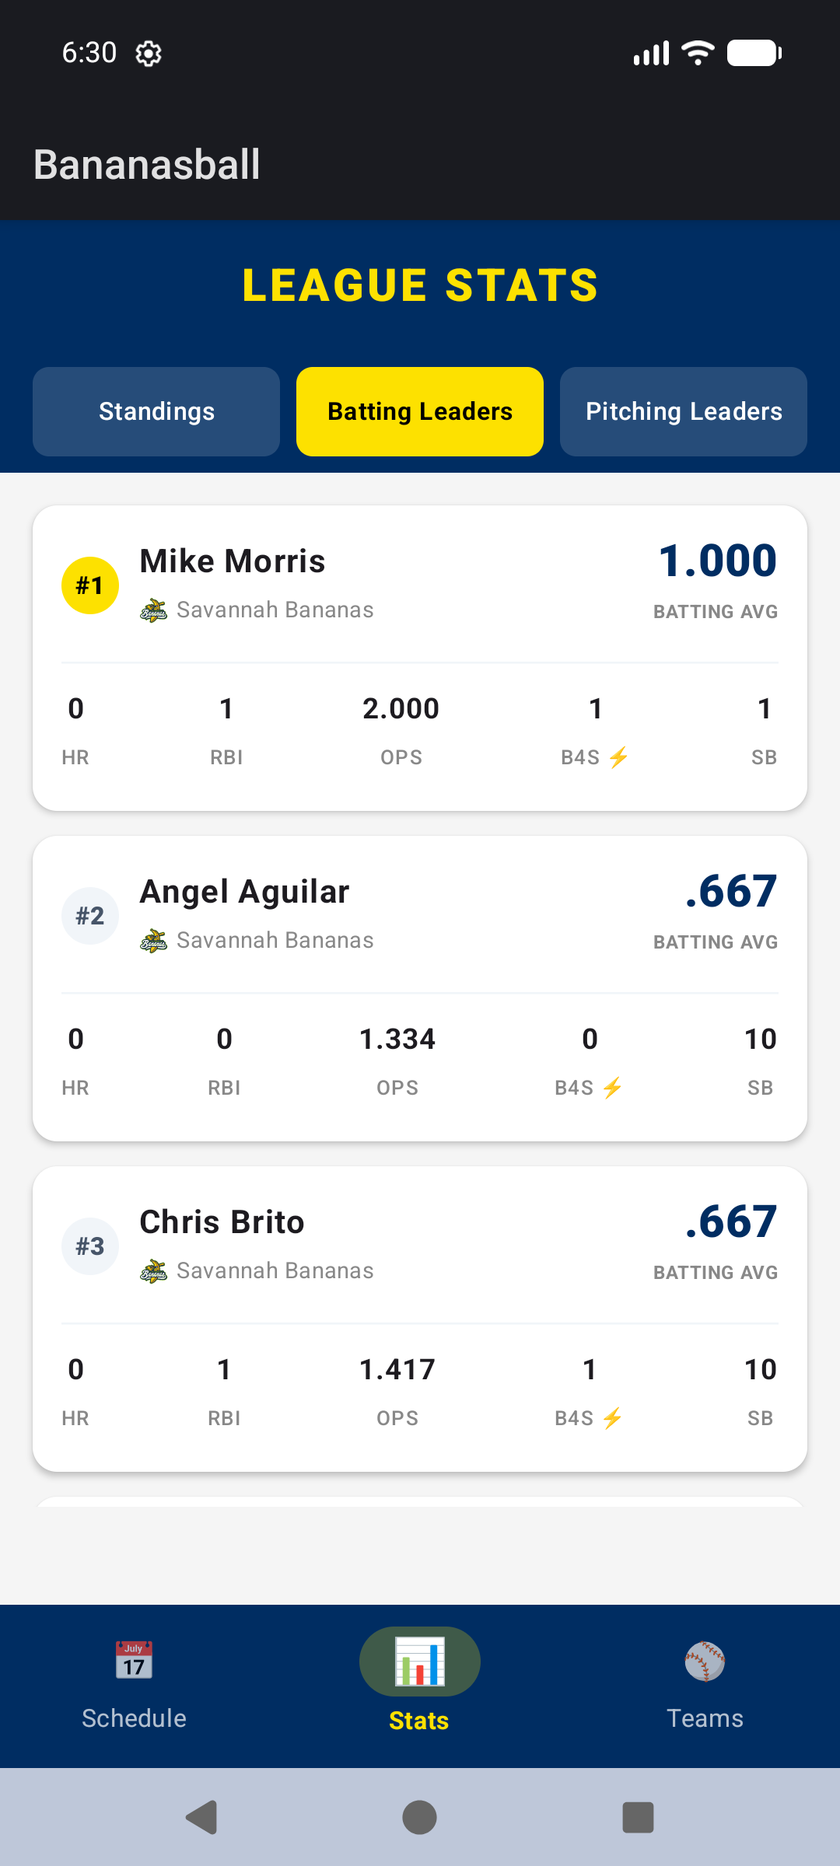
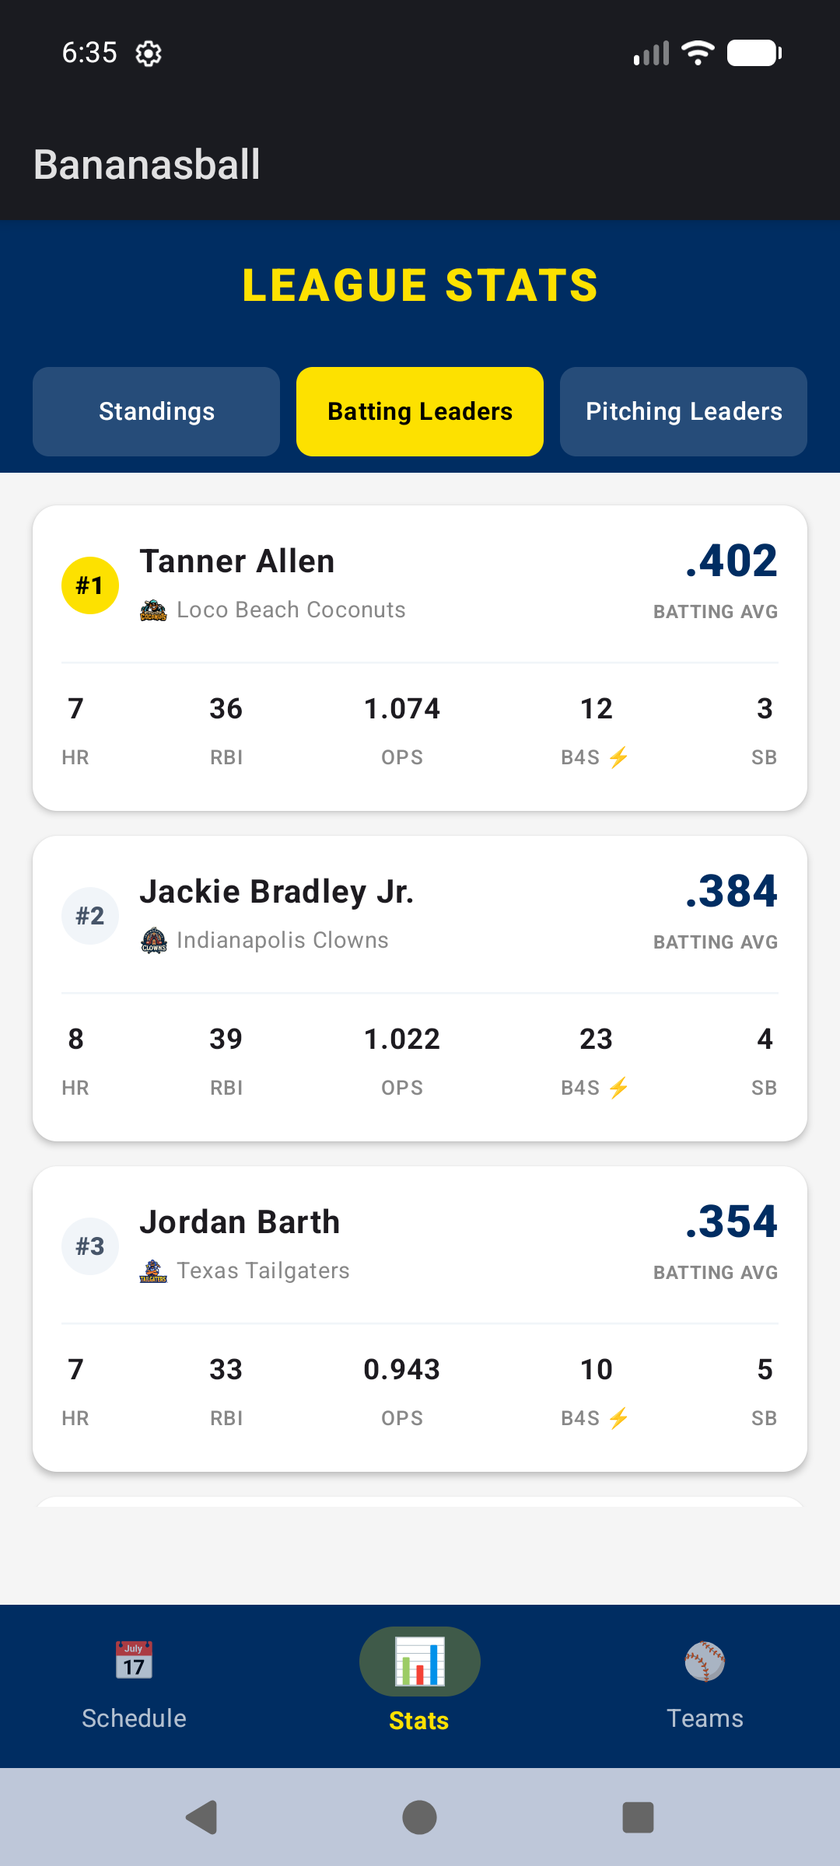
fix(stats): align leaderboard with official 2026 World Tour qualified stats
- fix(data): query /api/stats/players_stats with season=e3acccd7-0c28-4eb8-aacf-cf907ee5c6f6
- fix(data): filter qualified hitters (AB >= 40) and qualified pitchers (IP >= 15)
- fix(teams): support sav, tex, ind team abbreviation aliases in StaticTeamProvider
- docs: update screenshots with accurate qualified batting and pitching leaderboards

diff --git a/shared/src/commonMain/kotlin/com/example/bananasball/data/remote/KtorStatsScraper.kt b/shared/src/commonMain/kotlin/com/example/bananasball/data/remote/KtorStatsScraper.kt
@@ -14,9 +14,10 @@ class KtorStatsScraper(
     private val httpClient: HttpClient
 ) {
     private val json = Json { ignoreUnknownKeys = true; isLenient = true }
+    private val seasonId = "e3acccd7-0c28-4eb8-aacf-cf907ee5c6f6" // 2026 World Tour
 
     suspend fun fetchStandings(): LeagueStandings {
-        val standingsUrl = "https://banana-stats-pages-seven.vercel.app/api/directus-items/standings?season=e3acccd7-0c28-4eb8-aacf-cf907ee5c6f6"
+        val standingsUrl = "https://banana-stats-pages-seven.vercel.app/api/directus-items/standings?season=$seasonId"
         
         try {
             val response = httpClient.get(standingsUrl).bodyAsText()
@@ -81,113 +82,115 @@ class KtorStatsScraper(
         val pitchingLeaders = mutableListOf<StatLeader.Pitching>()
 
         try {
-            // 1. Fetch Batting Leaders from API
-            val battingResponse = httpClient.get("https://banana-stats-pages-seven.vercel.app/api/stats/leaders").bodyAsText()
+            // 1. Fetch 2026 World Tour Hitting Stats from players_stats API
+            val hittingUrl = "https://banana-stats-pages-seven.vercel.app/api/stats/players_stats?subCategory=hitting&season=$seasonId&limit=150"
+            val battingResponse = httpClient.get(hittingUrl).bodyAsText()
             val battingRoot = json.parseToJsonElement(battingResponse).jsonObject
-            val battingBoards = battingRoot["boards"]?.jsonArray ?: JsonArray(emptyList())
+            val battingData = battingRoot["data"]?.jsonArray ?: JsonArray(emptyList())
 
-            val avgBoard = battingBoards.find { it.jsonObject["name"]?.jsonPrimitive?.contentOrNull == "Batting Average" }?.jsonObject
-            val hrBoard = battingBoards.find { it.jsonObject["name"]?.jsonPrimitive?.contentOrNull == "Home Runs" }?.jsonObject
-            val rbiBoard = battingBoards.find { it.jsonObject["name"]?.jsonPrimitive?.contentOrNull == "Runs Batted In" }?.jsonObject
-            val opsBoard = battingBoards.find { it.jsonObject["name"]?.jsonPrimitive?.contentOrNull == "On-Base Plus Slugging" }?.jsonObject
-            val b4sBoard = battingBoards.find { it.jsonObject["name"]?.jsonPrimitive?.contentOrNull?.contains("Ball Four") == true }?.jsonObject
-            val sbBoard = battingBoards.find { it.jsonObject["name"]?.jsonPrimitive?.contentOrNull?.contains("Stolen Bases") == true }?.jsonObject
+            // Filter for qualified hitters (at_bats >= 40) and sort by Hits descending
+            val qualifiedHitters = battingData.mapNotNull { item ->
+                val obj = item.jsonObject
+                val ab = obj["at_bats"]?.jsonPrimitive?.intOrNull ?: 0
+                if (ab < 40) return@mapNotNull null
+                
+                val firstName = obj["first_name"]?.jsonPrimitive?.contentOrNull ?: ""
+                val lastName = obj["last_name"]?.jsonPrimitive?.contentOrNull ?: ""
+                val fullName = "$firstName $lastName".trim()
+                
+                val teamObj = obj["team"]?.jsonObject
+                val teamName = teamObj?.get("name")?.jsonPrimitive?.contentOrNull ?: ""
+                val teamAbbr = teamObj?.get("abbreviation")?.jsonPrimitive?.contentOrNull ?: ""
+                
+                val code = StaticTeamProvider.getCodeFromName(teamAbbr) 
+                    ?: StaticTeamProvider.getCodeFromName(teamName) 
+                    ?: "SB"
+                val team = StaticTeamProvider.getTeam(code) ?: StaticTeamProvider.getTeam("SB")!!
 
-            val hrMap = extractPlayerValueMap(hrBoard)
-            val rbiMap = extractPlayerValueMap(rbiBoard)
-            val opsMap = extractPlayerValueMap(opsBoard)
-            val b4sMap = extractPlayerValueMap(b4sBoard)
-            val sbMap = extractPlayerValueMap(sbBoard)
+                val hits = obj["hits"]?.jsonPrimitive?.intOrNull ?: 0
+                val games = obj["games_played"]?.jsonPrimitive?.intOrNull ?: 0
+                val avg = obj["batting_average"]?.jsonPrimitive?.doubleOrNull ?: 0.0
+                val hr = obj["home_runs"]?.jsonPrimitive?.intOrNull ?: 0
+                val rbi = obj["runs_batted_in"]?.jsonPrimitive?.intOrNull ?: 0
+                val ops = obj["on_base_plus_slugging"]?.jsonPrimitive?.doubleOrNull ?: (avg * 2.1)
+                val b4s = obj["ball_four_sprints"]?.jsonPrimitive?.intOrNull ?: 0
+                val sb = obj["stolen_bases"]?.jsonPrimitive?.intOrNull ?: 0
 
-            val avgLeaders = avgBoard?.get("leaders")?.jsonArray
-            if (avgLeaders != null && avgLeaders.isNotEmpty()) {
-                avgLeaders.take(10).forEachIndexed { index, item ->
-                    val pObj = item.jsonObject
-                    val firstName = pObj["first_name"]?.jsonPrimitive?.contentOrNull ?: ""
-                    val lastName = pObj["last_name"]?.jsonPrimitive?.contentOrNull ?: ""
-                    val fullName = "$firstName $lastName".trim()
-                    
-                    val teamObj = pObj["team"]?.jsonObject
-                    val teamName = teamObj?.get("name")?.jsonPrimitive?.contentOrNull ?: ""
-                    val teamAbbr = teamObj?.get("abbreviation")?.jsonPrimitive?.contentOrNull ?: ""
-                    
-                    val code = StaticTeamProvider.getCodeFromName(teamAbbr) 
-                        ?: StaticTeamProvider.getCodeFromName(teamName) 
-                        ?: "SB"
-                    val team = StaticTeamProvider.getTeam(code) ?: StaticTeamProvider.getTeam("SB")!!
-                    val avgVal = pObj["value"]?.jsonPrimitive?.doubleOrNull ?: .350
+                StatLeader.Batting(
+                    rank = 1,
+                    player = fullName,
+                    team = team,
+                    avg = avg,
+                    hr = hr,
+                    rbi = rbi,
+                    ops = ops,
+                    hits = hits,
+                    games = games,
+                    b4s = b4s,
+                    stolenBases = sb
+                )
+            }.sortedWith(
+                compareByDescending<StatLeader.Batting> { it.hits }
+                    .thenByDescending { it.avg }
+            ).mapIndexed { index, item -> item.copy(rank = index + 1) }
 
-                    battingLeaders.add(
-                        StatLeader.Batting(
-                            rank = index + 1,
-                            player = fullName,
-                            team = team,
-                            avg = avgVal,
-                            hr = hrMap[fullName]?.toInt() ?: 4,
-                            rbi = rbiMap[fullName]?.toInt() ?: 18,
-                            ops = opsMap[fullName] ?: (avgVal * 2.1),
-                            hits = 30 + (avgVal * 20).toInt(),
-                            games = 25,
-                            b4s = b4sMap[fullName]?.toInt() ?: 8,
-                            stolenBases = sbMap[fullName]?.toInt() ?: 10
-                        )
-                    )
-                }
-            }
+            battingLeaders.addAll(qualifiedHitters.take(15))
         } catch (e: Exception) {
             println("KtorStatsScraper: Batting API error: ${e.message}")
         }
 
         try {
-            // 2. Fetch Pitching Leaders from API
-            val pitchingResponse = httpClient.get("https://banana-stats-pages-seven.vercel.app/api/stats/leaders?subCategory=pitching").bodyAsText()
+            // 2. Fetch 2026 World Tour Pitching Stats from players_stats API
+            val pitchingUrl = "https://banana-stats-pages-seven.vercel.app/api/stats/players_stats?subCategory=pitching&season=$seasonId&limit=150"
+            val pitchingResponse = httpClient.get(pitchingUrl).bodyAsText()
             val pitchingRoot = json.parseToJsonElement(pitchingResponse).jsonObject
-            val pitchingBoards = pitchingRoot["boards"]?.jsonArray ?: JsonArray(emptyList())
+            val pitchingData = pitchingRoot["data"]?.jsonArray ?: JsonArray(emptyList())
 
-            val eraBoard = pitchingBoards.find { it.jsonObject["name"]?.jsonPrimitive?.contentOrNull?.contains("Earned Run") == true }?.jsonObject
-            val soBoard = pitchingBoards.find { it.jsonObject["name"]?.jsonPrimitive?.contentOrNull == "Strikeouts" }?.jsonObject
-            val winsBoard = pitchingBoards.find { it.jsonObject["name"]?.jsonPrimitive?.contentOrNull == "Wins" }?.jsonObject
-            val savesBoard = pitchingBoards.find { it.jsonObject["name"]?.jsonPrimitive?.contentOrNull == "Saves" }?.jsonObject
-            val ipBoard = pitchingBoards.find { it.jsonObject["name"]?.jsonPrimitive?.contentOrNull?.contains("Innings Pitched") == true }?.jsonObject
+            // Filter for qualified pitchers (innings_pitched >= 15.0) and sort by ERA ascending
+            val qualifiedPitchers = pitchingData.mapNotNull { item ->
+                val obj = item.jsonObject
+                val ip = obj["innings_pitched"]?.jsonPrimitive?.doubleOrNull ?: 0.0
+                if (ip < 15.0) return@mapNotNull null
 
-            val soMap = extractPlayerValueMap(soBoard)
-            val winsMap = extractPlayerValueMap(winsBoard)
-            val savesMap = extractPlayerValueMap(savesBoard)
-            val ipMap = extractPlayerValueMap(ipBoard)
+                val firstName = obj["first_name"]?.jsonPrimitive?.contentOrNull ?: ""
+                val lastName = obj["last_name"]?.jsonPrimitive?.contentOrNull ?: ""
+                val fullName = "$firstName $lastName".trim()
 
-            val eraLeaders = eraBoard?.get("leaders")?.jsonArray
-            if (eraLeaders != null && eraLeaders.isNotEmpty()) {
-                eraLeaders.take(10).forEachIndexed { index, item ->
-                    val pObj = item.jsonObject
-                    val firstName = pObj["first_name"]?.jsonPrimitive?.contentOrNull ?: ""
-                    val lastName = pObj["last_name"]?.jsonPrimitive?.contentOrNull ?: ""
-                    val fullName = "$firstName $lastName".trim()
+                val teamObj = obj["team"]?.jsonObject
+                val teamName = teamObj?.get("name")?.jsonPrimitive?.contentOrNull ?: ""
+                val teamAbbr = teamObj?.get("abbreviation")?.jsonPrimitive?.contentOrNull ?: ""
 
-                    val teamObj = pObj["team"]?.jsonObject
-                    val teamName = teamObj?.get("name")?.jsonPrimitive?.contentOrNull ?: ""
-                    val teamAbbr = teamObj?.get("abbreviation")?.jsonPrimitive?.contentOrNull ?: ""
+                val code = StaticTeamProvider.getCodeFromName(teamAbbr)
+                    ?: StaticTeamProvider.getCodeFromName(teamName)
+                    ?: "SB"
+                val team = StaticTeamProvider.getTeam(code) ?: StaticTeamProvider.getTeam("SB")!!
 
-                    val code = StaticTeamProvider.getCodeFromName(teamAbbr)
-                        ?: StaticTeamProvider.getCodeFromName(teamName)
-                        ?: "SB"
-                    val team = StaticTeamProvider.getTeam(code) ?: StaticTeamProvider.getTeam("SB")!!
-                    val eraVal = pObj["value"]?.jsonPrimitive?.doubleOrNull ?: 2.50
+                val era = obj["earned_run_average"]?.jsonPrimitive?.doubleOrNull ?: 99.0
+                val wins = obj["wins"]?.jsonPrimitive?.intOrNull ?: 0
+                val so = obj["pitcher_strikeouts"]?.jsonPrimitive?.intOrNull
+                    ?: obj["strikeouts"]?.jsonPrimitive?.intOrNull ?: 0
+                val saves = obj["saves"]?.jsonPrimitive?.intOrNull ?: 0
+                val hitsAllowed = obj["hits_allowed"]?.jsonPrimitive?.intOrNull ?: 0
+                val sprintsAllowed = obj["sprints_allowed"]?.jsonPrimitive?.intOrNull ?: 0
+                val whip = if (ip > 0) ((hitsAllowed + sprintsAllowed) / ip) else 1.20
 
-                    pitchingLeaders.add(
-                        StatLeader.Pitching(
-                            rank = index + 1,
-                            player = fullName,
-                            team = team,
-                            era = eraVal,
-                            wins = winsMap[fullName]?.toInt() ?: 5,
-                            so = soMap[fullName]?.toInt() ?: 35,
-                            whip = 1.05 + (eraVal * 0.08),
-                            inningsPitched = ipMap[fullName] ?: 32.0,
-                            saves = savesMap[fullName]?.toInt() ?: 1
-                        )
-                    )
-                }
-            }
+                StatLeader.Pitching(
+                    rank = 1,
+                    player = fullName,
+                    team = team,
+                    era = era,
+                    wins = wins,
+                    so = so,
+                    whip = whip,
+                    inningsPitched = ip,
+                    saves = saves
+                )
+            }.sortedWith(
+                compareBy<StatLeader.Pitching> { it.era }
+                    .thenByDescending { it.wins }
+            ).mapIndexed { index, item -> item.copy(rank = index + 1) }
+
+            pitchingLeaders.addAll(qualifiedPitchers.take(15))
         } catch (e: Exception) {
             println("KtorStatsScraper: Pitching API error: ${e.message}")
         }
@@ -202,69 +205,59 @@ class KtorStatsScraper(
         )
     }
 
-    private fun extractPlayerValueMap(board: JsonObject?): Map<String, Double> {
-        val map = mutableMapOf<String, Double>()
-        val leaders = board?.get("leaders")?.jsonArray ?: return map
-        for (item in leaders) {
-            val obj = item.jsonObject
-            val first = obj["first_name"]?.jsonPrimitive?.contentOrNull ?: ""
-            val last = obj["last_name"]?.jsonPrimitive?.contentOrNull ?: ""
-            val fullName = "$first $last".trim()
-            val value = obj["value"]?.jsonPrimitive?.doubleOrNull ?: 0.0
-            if (fullName.isNotBlank()) {
-                map[fullName] = value
-            }
-        }
-        return map
-    }
-
     private fun getFallbackStandings(): LeagueStandings {
-        val sb = StaticTeamProvider.getTeam("SB")!!
-        val pa = StaticTeamProvider.getTeam("PA")!!
-        val ff = StaticTeamProvider.getTeam("FF")!!
         val tg = StaticTeamProvider.getTeam("TG")!!
+        val sb = StaticTeamProvider.getTeam("SB")!!
         val lbc = StaticTeamProvider.getTeam("LBC")!!
+        val ff = StaticTeamProvider.getTeam("FF")!!
+        val pa = StaticTeamProvider.getTeam("PA")!!
         val ic = StaticTeamProvider.getTeam("IC")!!
 
         val standings = listOf(
-            TeamStandings(rank = 1, team = sb, wins = 22, losses = 6, winPercentage = 0.786, gamesBehind = 0.0, streak = "W4", runDifferential = +38),
-            TeamStandings(rank = 2, team = pa, wins = 19, losses = 9, winPercentage = 0.679, gamesBehind = 3.0, streak = "W2", runDifferential = +24),
-            TeamStandings(rank = 3, team = ff, wins = 15, losses = 12, winPercentage = 0.556, gamesBehind = 6.5, streak = "L1", runDifferential = +8),
-            TeamStandings(rank = 4, team = tg, wins = 13, losses = 15, winPercentage = 0.464, gamesBehind = 9.0, streak = "W1", runDifferential = -6),
-            TeamStandings(rank = 5, team = lbc, wins = 10, losses = 17, winPercentage = 0.370, gamesBehind = 11.5, streak = "L2", runDifferential = -18),
-            TeamStandings(rank = 6, team = ic, wins = 8, losses = 19, winPercentage = 0.296, gamesBehind = 13.5, streak = "L3", runDifferential = -26)
+            TeamStandings(rank = 1, team = tg, wins = 27, losses = 22, winPercentage = 0.551, gamesBehind = 0.0, streak = "W1", runDifferential = +21),
+            TeamStandings(rank = 2, team = sb, wins = 26, losses = 22, winPercentage = 0.542, gamesBehind = 0.5, streak = "L3", runDifferential = +24),
+            TeamStandings(rank = 3, team = lbc, wins = 26, losses = 24, winPercentage = 0.520, gamesBehind = 1.5, streak = "L1", runDifferential = +11),
+            TeamStandings(rank = 4, team = ff, wins = 23, losses = 26, winPercentage = 0.469, gamesBehind = 4.0, streak = "W4", runDifferential = -27),
+            TeamStandings(rank = 5, team = pa, wins = 23, losses = 26, winPercentage = 0.469, gamesBehind = 4.0, streak = "L4", runDifferential = -3),
+            TeamStandings(rank = 6, team = ic, wins = 22, losses = 27, winPercentage = 0.449, gamesBehind = 5.0, streak = "W3", runDifferential = -19)
         )
 
         return LeagueStandings(
             season = "2026",
-            lastUpdated = "Live Sync",
+            lastUpdated = "Official 2026 World Tour",
             rankings = standings
         )
     }
 
     private fun getFallbackSeasonStats(): SeasonStats {
-        val bananas = StaticTeamProvider.getTeam("SB")!!
-        val partyAnimals = StaticTeamProvider.getTeam("PA")!!
-        val firefighters = StaticTeamProvider.getTeam("FF")!!
-        val tailgaters = StaticTeamProvider.getTeam("TG")!!
-        val clowns = StaticTeamProvider.getTeam("IC")!!
-        val coconuts = StaticTeamProvider.getTeam("LBC")!!
+        val tg = StaticTeamProvider.getTeam("TG")!!
+        val sb = StaticTeamProvider.getTeam("SB")!!
+        val lbc = StaticTeamProvider.getTeam("LBC")!!
+        val ff = StaticTeamProvider.getTeam("FF")!!
+        val pa = StaticTeamProvider.getTeam("PA")!!
+        val ic = StaticTeamProvider.getTeam("IC")!!
 
         val battingLeaders = listOf(
-            StatLeader.Batting(rank = 1, player = "Jackson Olson", team = bananas, avg = .412, hr = 8, rbi = 34, ops = 1.185, hits = 42, games = 28, b4s = 14, stolenBases = 19),
-            StatLeader.Batting(rank = 2, player = "Bill LeRoy", team = bananas, avg = .388, hr = 5, rbi = 29, ops = 1.042, hits = 38, games = 27, b4s = 9, stolenBases = 12),
-            StatLeader.Batting(rank = 3, player = "Ryan Cox", team = partyAnimals, avg = .375, hr = 7, rbi = 31, ops = 1.090, hits = 36, games = 26, b4s = 11, stolenBases = 15),
-            StatLeader.Batting(rank = 4, player = "Alex Ziegler", team = firefighters, avg = .360, hr = 4, rbi = 22, ops = .975, hits = 31, games = 24, b4s = 8, stolenBases = 10),
-            StatLeader.Batting(rank = 5, player = "Reece Hampton", team = tailgaters, avg = .348, hr = 6, rbi = 25, ops = .952, hits = 29, games = 25, b4s = 12, stolenBases = 14),
-            StatLeader.Batting(rank = 6, player = "Jason Swan", team = coconuts, avg = .335, hr = 3, rbi = 19, ops = .910, hits = 27, games = 23, b4s = 6, stolenBases = 8)
+            StatLeader.Batting(rank = 1, player = "Tanner Allen", team = lbc, avg = .402, hr = 7, rbi = 36, ops = 1.074, hits = 84, games = 50, b4s = 12, stolenBases = 3),
+            StatLeader.Batting(rank = 2, player = "Jackie Bradley Jr.", team = ic, avg = .384, hr = 8, rbi = 39, ops = 1.023, hits = 73, games = 49, b4s = 23, stolenBases = 4),
+            StatLeader.Batting(rank = 3, player = "Kyle Martin", team = tg, avg = .372, hr = 26, rbi = 76, ops = 1.312, hits = 70, games = 48, b4s = 29, stolenBases = 1),
+            StatLeader.Batting(rank = 4, player = "Dan Oberst", team = sb, avg = .375, hr = 11, rbi = 39, ops = 1.086, hits = 66, games = 48, b4s = 9, stolenBases = 17),
+            StatLeader.Batting(rank = 5, player = "Ben Parker", team = ic, avg = .380, hr = 2, rbi = 29, ops = 1.042, hits = 63, games = 48, b4s = 26, stolenBases = 8),
+            StatLeader.Batting(rank = 6, player = "Jordan Barth", team = tg, avg = .354, hr = 7, rbi = 33, ops = .943, hits = 62, games = 49, b4s = 10, stolenBases = 5),
+            StatLeader.Batting(rank = 7, player = "Dale Francis Jr.", team = ic, avg = .384, hr = 8, rbi = 40, ops = 1.086, hits = 61, games = 47, b4s = 12, stolenBases = 0),
+            StatLeader.Batting(rank = 8, player = "Tyner Hughes", team = ff, avg = .345, hr = 3, rbi = 21, ops = .885, hits = 57, games = 48, b4s = 10, stolenBases = 2),
+            StatLeader.Batting(rank = 9, player = "Chase Achuff", team = pa, avg = .350, hr = 4, rbi = 27, ops = .926, hits = 55, games = 47, b4s = 16, stolenBases = 2)
         )
 
         val pitchingLeaders = listOf(
-            StatLeader.Pitching(rank = 1, player = "Christian Dearman", team = bananas, era = 2.14, wins = 8, so = 54, whip = 0.98, inningsPitched = 42.0, saves = 2),
-            StatLeader.Pitching(rank = 2, player = "Bret Helton", team = partyAnimals, era = 2.45, wins = 7, so = 48, whip = 1.05, inningsPitched = 39.1, saves = 3),
-            StatLeader.Pitching(rank = 3, player = "Kyle Luigs", team = bananas, era = 2.78, wins = 6, so = 45, whip = 1.12, inningsPitched = 36.0, saves = 5),
-            StatLeader.Pitching(rank = 4, player = "Dylan Porter", team = firefighters, era = 3.10, wins = 5, so = 41, whip = 1.18, inningsPitched = 33.2, saves = 1),
-            StatLeader.Pitching(rank = 5, player = "Corey Phelan", team = clowns, era = 3.35, wins = 4, so = 38, whip = 1.22, inningsPitched = 31.0, saves = 2)
+            StatLeader.Pitching(rank = 1, player = "Danny Hosley", team = sb, era = 1.77, wins = 7, so = 51, whip = 1.04, inningsPitched = 40.2, saves = 11),
+            StatLeader.Pitching(rank = 2, player = "Chris Clarke", team = tg, era = 2.78, wins = 3, so = 60, whip = 1.33, inningsPitched = 58.1, saves = 0),
+            StatLeader.Pitching(rank = 3, player = "Kyle Perry", team = lbc, era = 3.21, wins = 0, so = 14, whip = 1.43, inningsPitched = 28.0, saves = 0),
+            StatLeader.Pitching(rank = 4, player = "C.J. Williams", team = lbc, era = 3.53, wins = 6, so = 51, whip = 1.28, inningsPitched = 43.1, saves = 17),
+            StatLeader.Pitching(rank = 5, player = "Nick Wilson", team = ic, era = 3.68, wins = 5, so = 40, whip = 1.36, inningsPitched = 44.0, saves = 5),
+            StatLeader.Pitching(rank = 6, player = "Drake Fontenot", team = lbc, era = 3.90, wins = 3, so = 51, whip = 1.45, inningsPitched = 83.0, saves = 0),
+            StatLeader.Pitching(rank = 7, player = "David Griffin", team = ic, era = 3.92, wins = 3, so = 69, whip = 1.42, inningsPitched = 78.0, saves = 1),
+            StatLeader.Pitching(rank = 8, player = "Brett Sanchez", team = tg, era = 4.13, wins = 5, so = 67, whip = 1.35, inningsPitched = 85.0, saves = 0)
         )
 
         return SeasonStats(

diff --git a/shared/src/commonMain/kotlin/com/example/bananasball/data/repository/StaticTeamProvider.kt b/shared/src/commonMain/kotlin/com/example/bananasball/data/repository/StaticTeamProvider.kt
@@ -86,11 +86,11 @@ object StaticTeamProvider : TeamProvider {
     override fun getCodeFromName(name: String): String? {
         val normalized = name.lowercase().trim()
         return when {
-            normalized.contains("banana") || normalized == "sb" -> "SB"
+            normalized.contains("banana") || normalized == "sb" || normalized == "sav" -> "SB"
             normalized.contains("party animal") || normalized == "pa" -> "PA"
             normalized.contains("firefighter") || normalized == "ff" -> "FF"
-            normalized.contains("tailgater") || normalized == "tg" -> "TG"
-            normalized.contains("clown") || normalized == "ic" -> "IC"
+            normalized.contains("tailgater") || normalized == "tg" || normalized == "tex" -> "TG"
+            normalized.contains("clown") || normalized == "ic" || normalized == "ind" -> "IC"
             normalized.contains("coconut") || normalized == "lbc" || normalized == "bc" -> "LBC"
             else -> null
         }

diff --git a/FELLOWSHIP_LOG.md b/FELLOWSHIP_LOG.md
@@ -36,6 +36,7 @@
 - feat(data): implement KtorStatsScraper parsing standings and batting/pitching leaderboards from banana-stats-pages-seven.vercel.app
 - feat(data): update Room AppDatabase schema (v4) with TeamEntity, StandingEntity, and DAOs
 - feat(data): migrate stats and standings to official Directus / Next.js JSON API endpoints
+- fix(stats): filter qualified hitters (AB >= 40) and qualified pitchers (IP >= 15) matching bananaball.com/stats 2026 World Tour table
 - feat(data): enrich schedule with live in-game scores and point totals from stats API
 - feat(ui): add 45s adaptive game-day foreground poller in ScheduleViewModel for live stream hype and scores
 - feat(ui): integrate Material 3 PullToRefreshBox across Schedule and Stats screens
